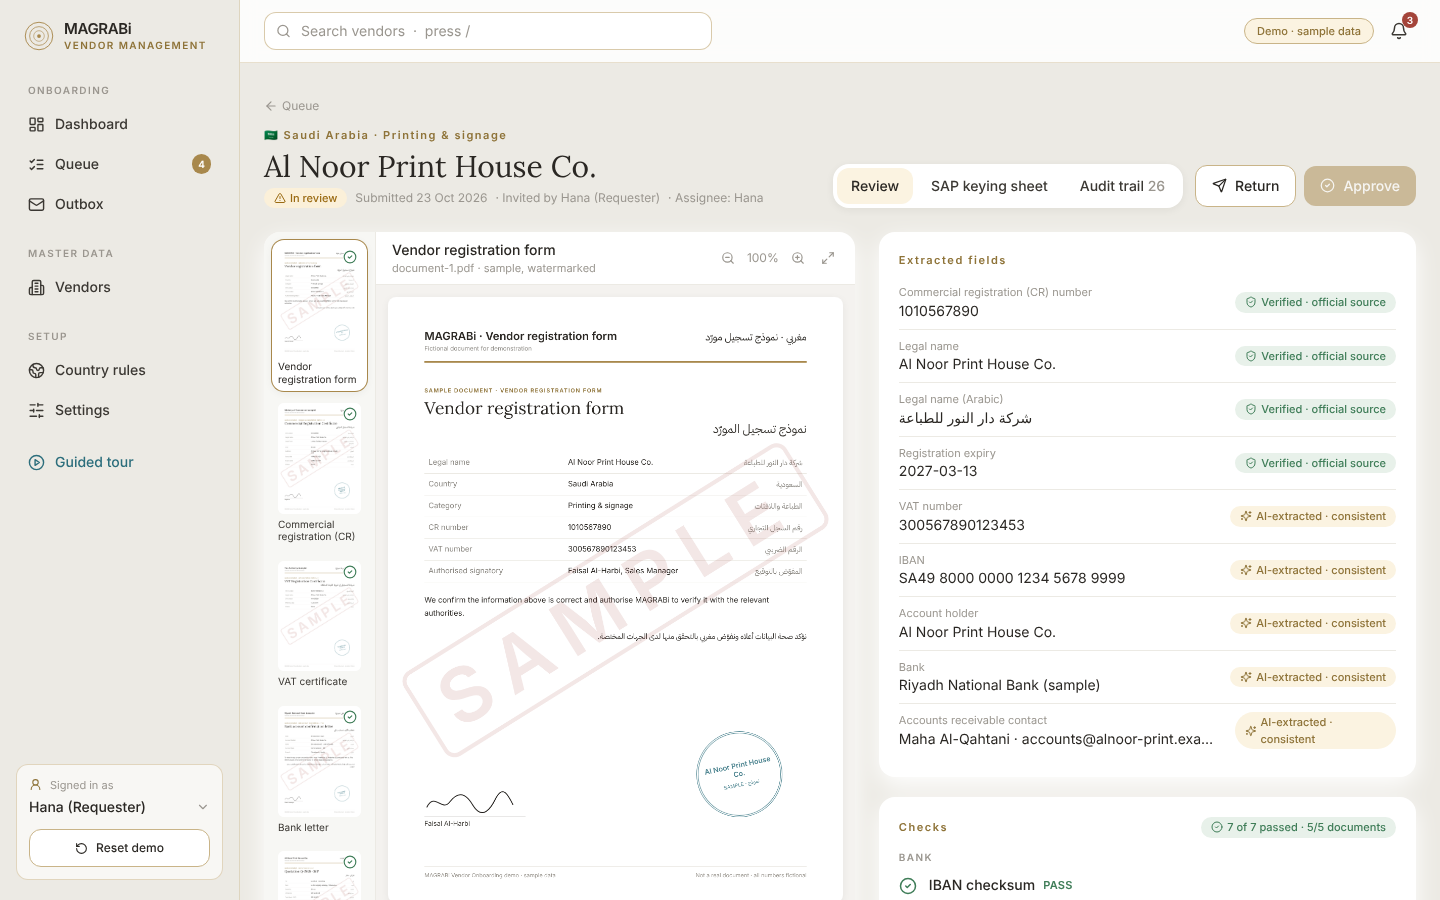
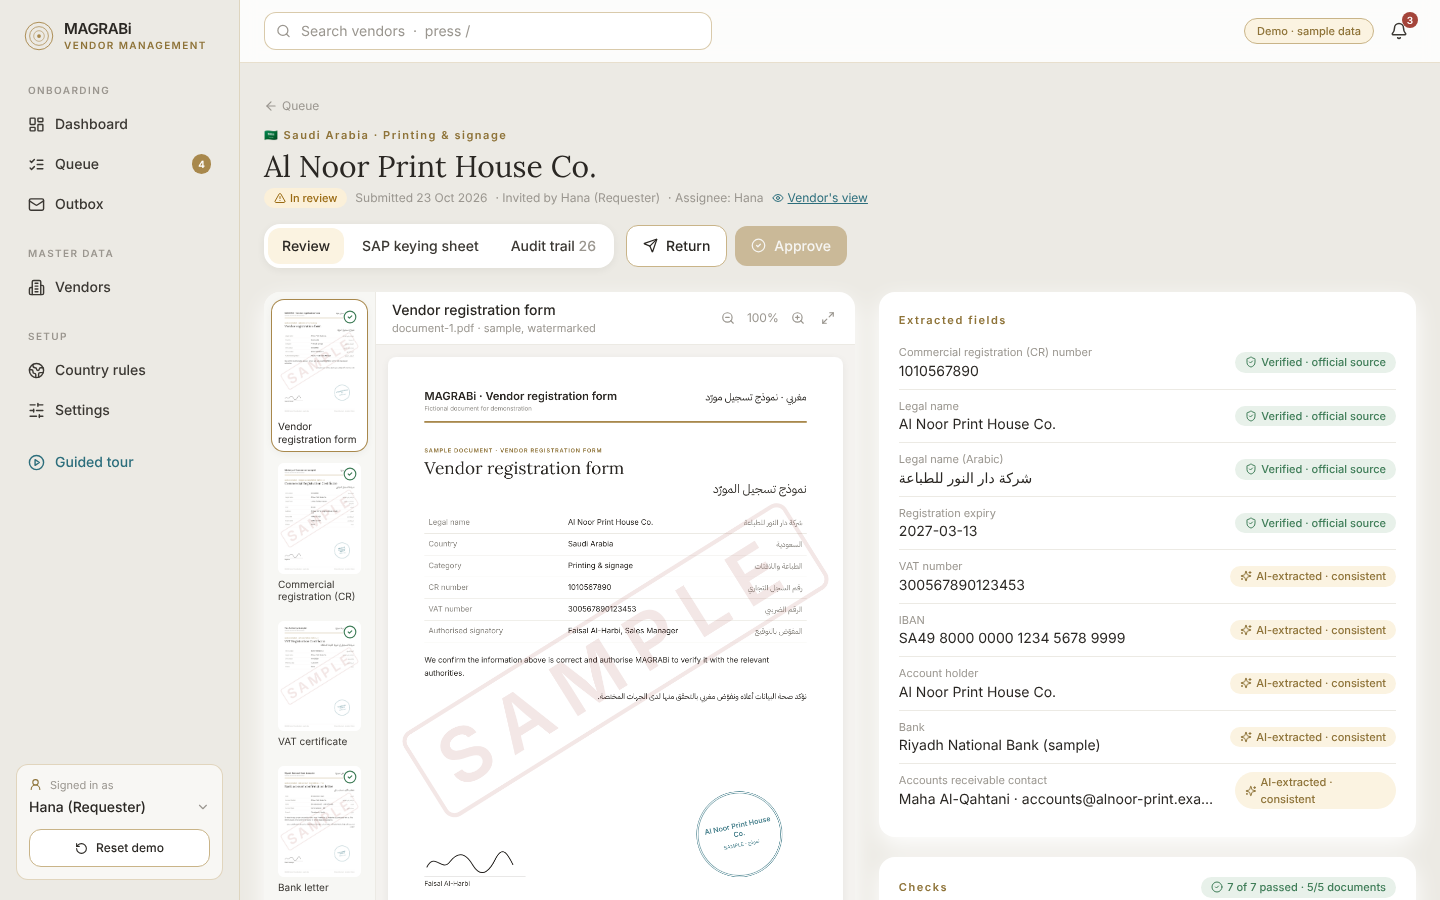
Vendor side: explicit vendor chooser, switcher, clickable steps, read-only submission view
Claude-Session: https://claude.ai/code/session_012CEdqWy1b85vxDCCQEFpTH

diff --git a/src/app/Landing.tsx b/src/app/Landing.tsx
@@ -4,12 +4,16 @@ import { Building2, ClipboardCheck, PlayCircle } from 'lucide-react';
 import { Brand } from '@/components/Brand';
 import { DemoBanner } from '@/components/DemoBanner';
 import { useStore } from './store';
+import { useDemoVendors } from '@/components/VendorPicker';
+import { COUNTRIES } from '@/data/countries';
+import { STATUS_LABEL, STATUS_LEVEL } from '@/lib/reviewChecks';
+import { LevelChip } from '@/components/StatusChip';
 
 export function Landing() {
-  const { vendors } = useStore();
+  useStore();
+  const demoVendors = useDemoVendors().slice(0, 6);
   const tour = useTour();
   const navigate = useNavigate();
-  const pending = vendors.find((v) => v.status === 'invited' || v.status === 'draft') ?? vendors[0];
   return (
     <div className="min-h-screen bg-greige lens-bg">
       <header className="flex items-center gap-3 px-8 py-5">
@@ -28,14 +32,24 @@ export function Landing() {
           <span className="text-sm text-muted">or pick a side below</span>
         </div>
         <div className="mt-8 grid gap-5 md:grid-cols-2">
-          <Link to={`/vendor/${pending?.inviteId ?? 'inv-alnoor-7f3k'}`} className="card group p-8 transition hover:-translate-y-0.5 hover:shadow-lg">
+          <div className="card p-8">
             <div className="flex h-12 w-12 items-center justify-center rounded-2xl bg-teal/10 text-teal">
               <Building2 />
             </div>
             <div className="mt-6 font-serif text-2xl text-ink">Open as vendor</div>
-            <p className="mt-2 text-sm text-body">Register through the invitation link. English or Arabic, instant feedback on every document.</p>
-            <div className="mt-6 text-sm font-medium text-teal group-hover:underline">Open the invitation →</div>
-          </Link>
+            <p className="mt-2 text-sm text-body">Pick a sample vendor. Each one is at a different point in the journey.</p>
+            <ul className="mt-4 divide-y divide-greige">
+              {demoVendors.map((v) => (
+                <li key={v.id}>
+                  <Link to={`/vendor/${v.inviteId}`} className="group flex items-center gap-3 py-2 text-sm">
+                    <span>{COUNTRIES[v.country].flag}</span>
+                    <span className="flex-1 truncate text-ink group-hover:underline">{v.name || v.email}</span>
+                    <LevelChip level={STATUS_LEVEL[v.status]} label={STATUS_LABEL[v.status]} />
+                  </Link>
+                </li>
+              ))}
+            </ul>
+          </div>
           <Link to="/procurement" className="card group p-8 transition hover:-translate-y-0.5 hover:shadow-lg">
             <div className="flex h-12 w-12 items-center justify-center rounded-2xl bg-gold/10 text-gold-deep">
               <ClipboardCheck />

diff --git a/src/components/VendorPicker.tsx b/src/components/VendorPicker.tsx
@@ -1,0 +1,43 @@
+import { useNavigate } from 'react-router-dom';
+import { ChevronDown } from 'lucide-react';
+import { useStore } from '@/app/store';
+import { COUNTRIES } from '@/data/countries';
+import { STATUS_LABEL } from '@/lib/reviewChecks';
+import type { Vendor } from '@/lib/types';
+
+const ACTIVE: Vendor['status'][] = ['invited', 'draft', 'submitted', 'in_review', 'returned', 'approved', 'code_issued'];
+
+/** Demo-only: jump between sample vendors on the vendor side. */
+export function useDemoVendors(): Vendor[] {
+  const { vendors } = useStore();
+  return vendors
+    .filter((v) => ACTIVE.includes(v.status) && !v.id.startsWith('v-hist'))
+    .sort((a, b) => ACTIVE.indexOf(a.status) - ACTIVE.indexOf(b.status));
+}
+
+export function VendorPicker({ current, compact = false }: { current?: Vendor; compact?: boolean }) {
+  const navigate = useNavigate();
+  const list = useDemoVendors();
+  return (
+    <label className={`relative inline-flex items-center gap-2 rounded-xl border border-dashed border-champagne bg-white/80 ${compact ? 'px-2 py-1 text-[11px]' : 'px-3 py-1.5 text-xs'} text-muted`} title="Demo: switch to another sample vendor">
+      <span className="hidden sm:inline">Demo · vendor</span>
+      <select
+        value={current?.id ?? ''}
+        onChange={(e) => {
+          const v = list.find((x) => x.id === e.target.value);
+          if (v) navigate(`/vendor/${v.inviteId}`);
+        }}
+        className="appearance-none bg-transparent pe-5 font-medium text-ink focus:outline-none"
+        aria-label="Switch sample vendor"
+      >
+        {!current && <option value="">Choose…</option>}
+        {list.map((v) => (
+          <option key={v.id} value={v.id}>
+            {COUNTRIES[v.country].flag} {v.name || v.email} · {STATUS_LABEL[v.status]}
+          </option>
+        ))}
+      </select>
+      <ChevronDown size={12} className="pointer-events-none absolute end-2 text-muted" />
+    </label>
+  );
+}

diff --git a/src/procurement/Review.tsx b/src/procurement/Review.tsx
@@ -1,6 +1,7 @@
 import { useEffect, useState } from 'react';
 import { Link, NavLink, useNavigate, useParams } from 'react-router-dom';
-import { ArrowLeft, CheckCircle2, Send, ShieldAlert, UserRound } from 'lucide-react';
+import { ArrowLeft, CheckCircle2, Send, ShieldAlert, UserRound, Eye } from 'lucide-react';
+import { OPEN_LINKS_IN_NEW_TAB } from '@/lib/routerMode';
 import { useToast } from '@/components/Toast';
 import { useStore } from '@/app/store';
 import { DocViewer } from '@/components/DocViewer';
@@ -70,6 +71,7 @@ export function VendorReview() {
             <span>· Invited by {vendor.invitedBy}</span>
             {vendor.approvedBy && <span>· Approved by {vendor.approvedBy}</span>}
             <span>· Assignee: {vendor.assignee ? vendor.assignee.split(' ')[0] : 'none'}</span>
+            <Link to={`/vendor/${vendor.inviteId}`} target={OPEN_LINKS_IN_NEW_TAB ? '_blank' : undefined} className="inline-flex items-center gap-1 text-teal underline"><Eye size={12} /> Vendor's view</Link>
             {canAct && vendor.assignee !== store.currentUser && (
               <button className="text-gold-deep underline" onClick={() => { store.patch(vendor.id, { assignee: store.currentUser }); store.audit(vendor.id, store.currentUser, 'review', `Assigned to ${store.currentUser}`); }}>Assign to me</button>
             )}
